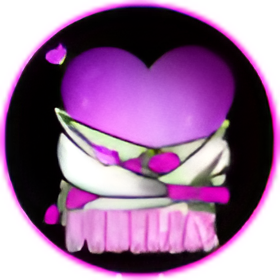
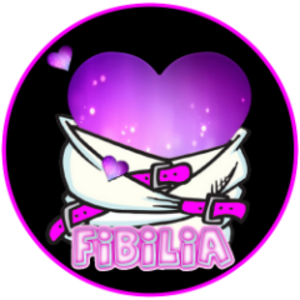
Modification Site v0.10
Ajout de BulleDeVanille
Modification de l'image Fibie

Changed region(s): [[0.0, 0.0, 1.0, 1.0], [0.6571, 0.4, 0.6857, 0.4571], [0.6857, 0.3429, 0.7143, 0.3714]]

diff --git a/about.html b/about.html
@@ -256,7 +256,7 @@
                             <a class="btn btn-outline-primary btn-lg" href="https://www.twitch.tv/fibilia3310" target="_blank">TWITCH</a>
                         </div>
                         <div class="col-md-4 col-sm-6" >
-                            <img class="rounded-circle" src="img/icons/animat-checkmark.gif" alt="Generic placeholder image" width="140" height="140">
+                            <img class="rounded-circle" src="img/streamer/BulleDeVanille.jpg" alt="Generic placeholder image" width="140" height="140">
                             <h5 class="mb-4"><br>BulleDeVanille</h5>
                             <a class="btn btn-outline-primary btn-lg" href="https://www.twitch.tv/bulledevanille" target="_blank">TWITCH</a>
                         </div>
